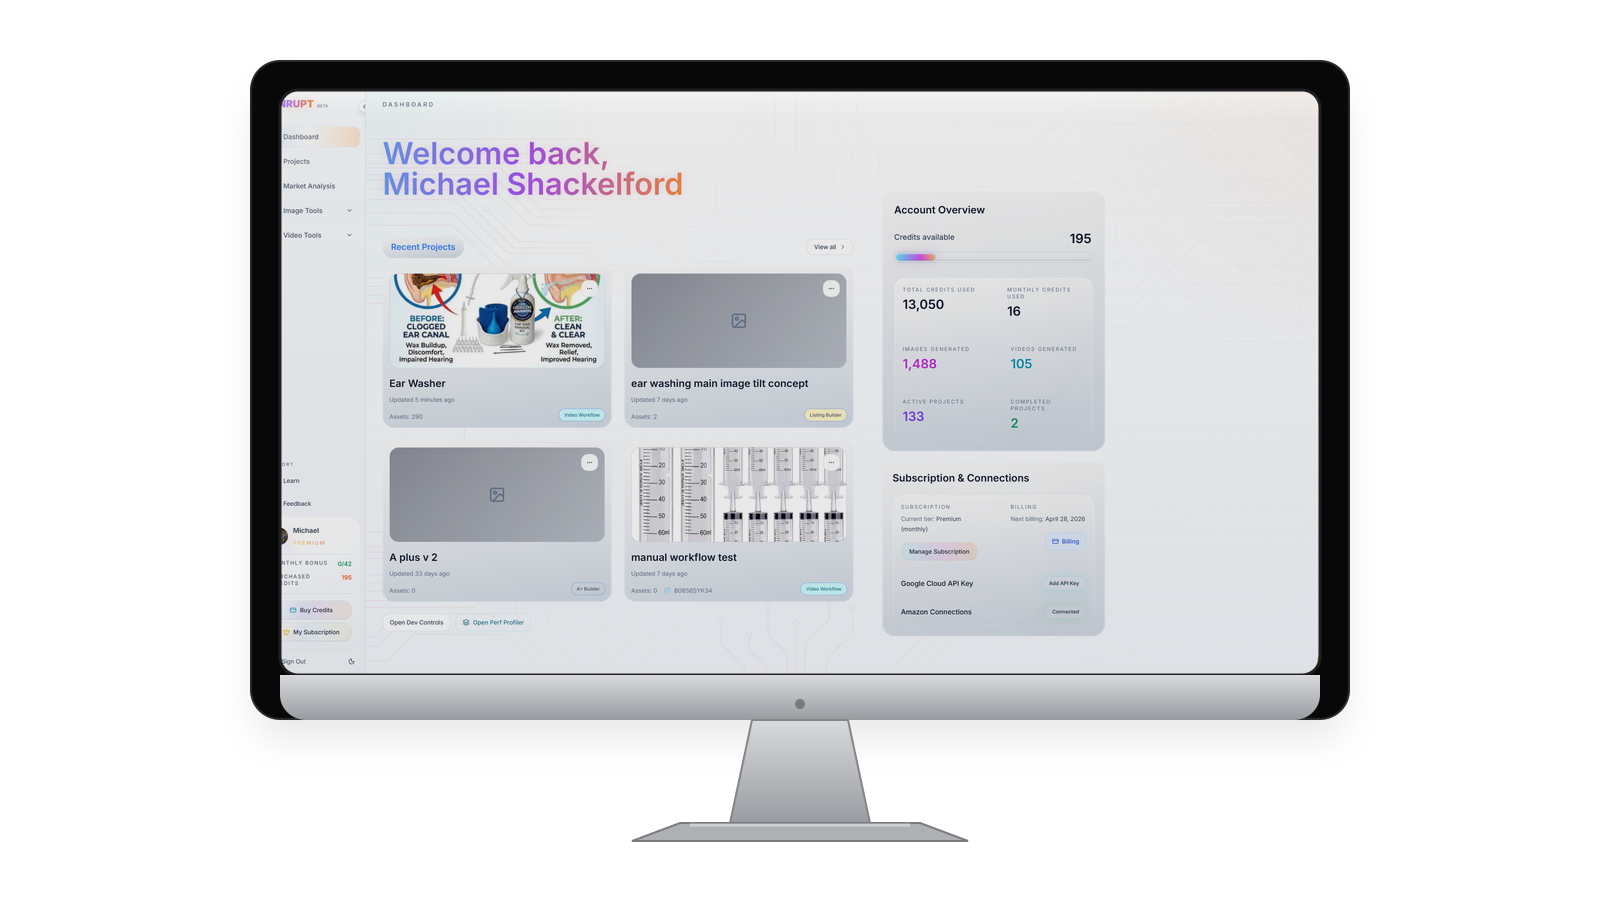
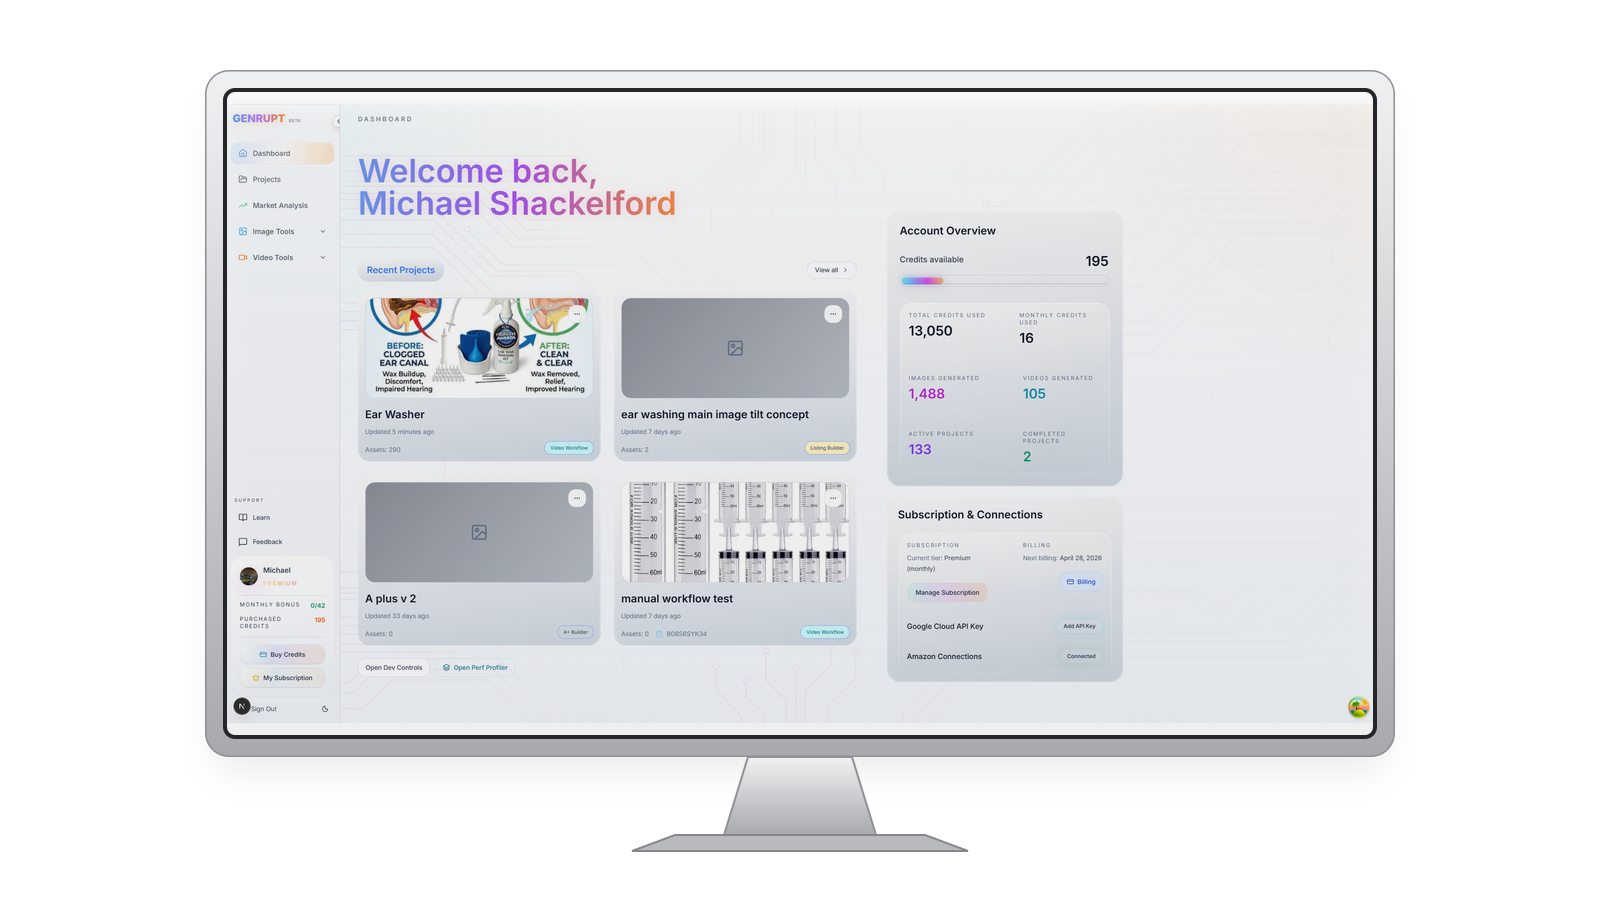
Enlarge project thumbnails and refine desktop frame

diff --git a/src/styles/home.css b/src/styles/home.css
@@ -451,12 +451,12 @@ body.hc-home .hc-main {
 
   .hc-home-project__media {
     order: 1;
-    grid-column: span 2;
+    grid-column: span 3;
   }
 
   .hc-home-project__content {
     order: 2;
-    grid-column: span 6;
+    grid-column: span 5;
   }
 }
 
